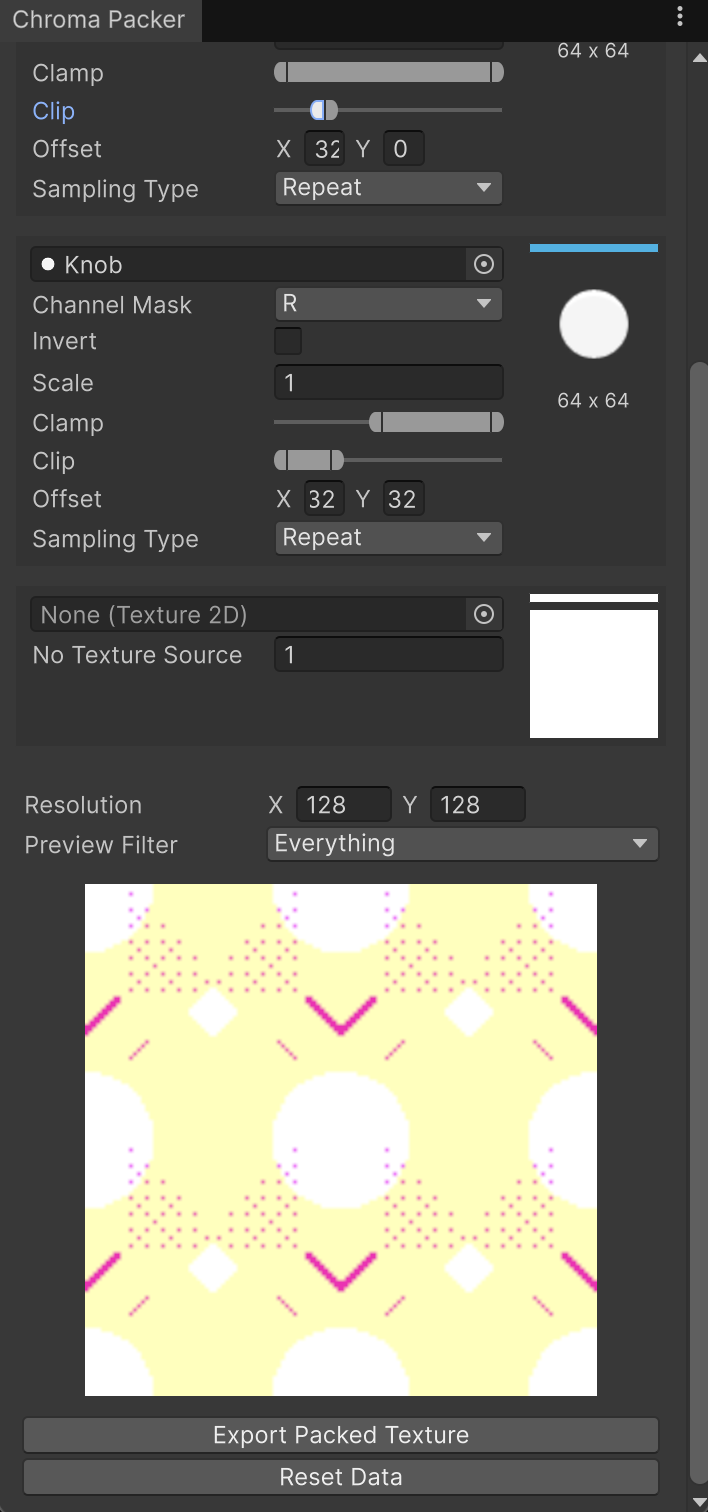
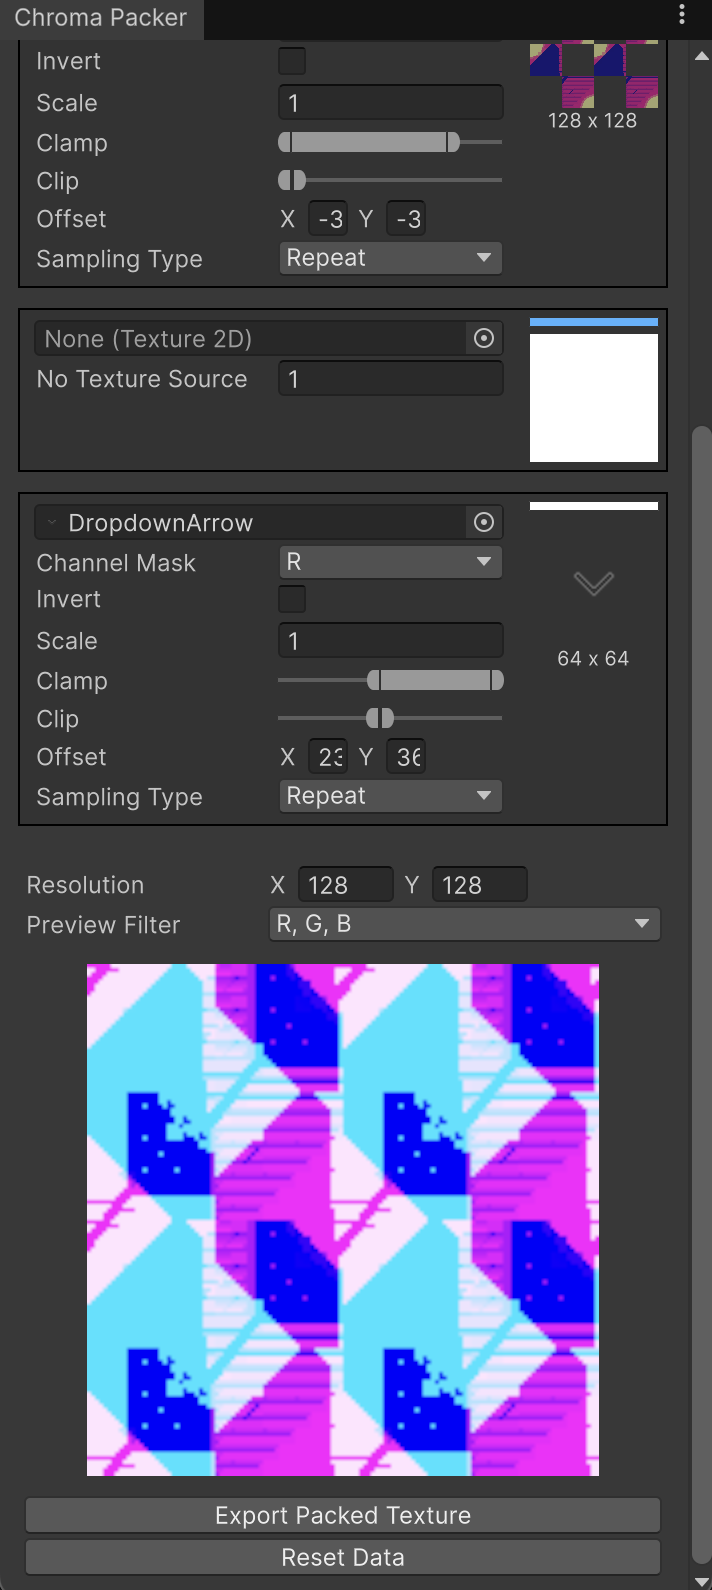
Minor UX improvement

diff --git a/Editor/Extensions.cs b/Editor/Extensions.cs
@@ -5,12 +5,43 @@ namespace AmeWorks.ChromaPacker.Editor
 {
     internal static class VisualElementExtensions
     {
+        public static void SetBorderColor(this VisualElement self, Color color)
+        {
+            self.style.borderLeftColor = color;
+            self.style.borderRightColor = color;
+            self.style.borderTopColor = color;
+            self.style.borderBottomColor = color;
+        }
+
+        public static void SetBorderWidth(this VisualElement self, float width)
+        {
+            self.SetBorderWidth(width, width, width, width);
+        }
+        
+        public static void SetBorderWidth(this VisualElement self, float left, float right, float top, float bottom)
+        {
+            self.style.borderLeftWidth = left;
+            self.style.borderRightWidth = right;
+            self.style.borderTopWidth = top;
+            self.style.borderBottomWidth = bottom;
+        }
+        
+        public static void SetMargin(this VisualElement self, float width)
+        {
+            self.SetMargin(width, width, width, width);
+        }
+        
         public static void SetMargin(this VisualElement self, float left, float right, float top, float bottom)
         {
             self.style.marginLeft = left;
             self.style.marginRight = right;
             self.style.marginTop = top;
             self.style.marginBottom = bottom;
+        }
+        
+        public static void SetPadding(this VisualElement self, float width)
+        {
+            self.SetPadding(width, width, width, width);
         }
         
         public static void SetPadding(this VisualElement self, float left, float right, float top, float bottom)

diff --git a/Editor/ChromaPackerEditor.cs b/Editor/ChromaPackerEditor.cs
@@ -95,7 +95,7 @@ namespace AmeWorks.ChromaPacker.Editor
             root.Add(scrollView);
             
             VisualElement mainElementsGroup = new VisualElement();
-            mainElementsGroup.SetMargin(BASE_PADDING, BASE_PADDING, BASE_PADDING, BASE_PADDING);
+            mainElementsGroup.SetMargin(BASE_PADDING);
             mainElementsGroup.style.minWidth = WINDOW_WIDTH;
             mainElementsGroup.style.minHeight = 64;
             mainElementsGroup.style.flexDirection = FlexDirection.Column;
@@ -119,12 +119,15 @@ namespace AmeWorks.ChromaPacker.Editor
                 var texture = m_channelTextures[index];
                 
                 VisualElement topElement = new VisualElement();
-                topElement.SetPadding(SMALL_PADDING, SMALL_PADDING, SMALL_PADDING, SMALL_PADDING);
+                topElement.SetBorderWidth(1);
+                topElement.SetBorderColor(Color.black);
+                topElement.SetPadding(SMALL_PADDING);
                 topElement.style.marginTop = BASE_PADDING;
                 topElement.style.minWidth = WINDOW_WIDTH - BASE_PADDING;
                 topElement.style.backgroundColor = s_darkerGrey;
                 topElement.style.flexDirection = FlexDirection.Row;
                 topElement.style.justifyContent = Justify.Center;
+
                 
                 VisualElement verticalGroupLeft = new VisualElement();
                 verticalGroupLeft.style.marginRight = BASE_PADDING;
